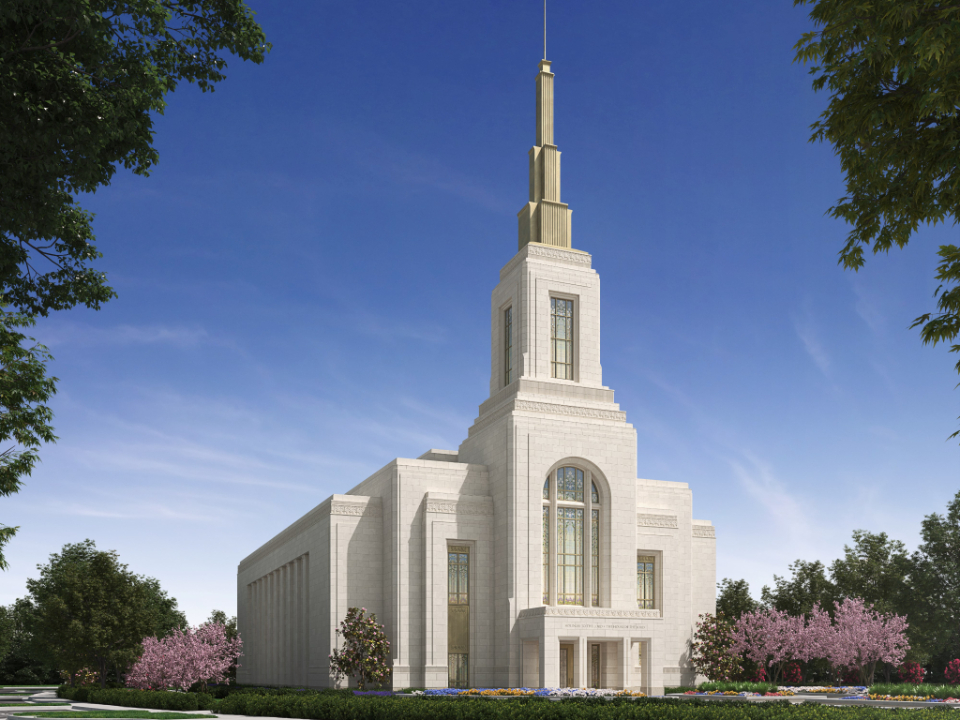
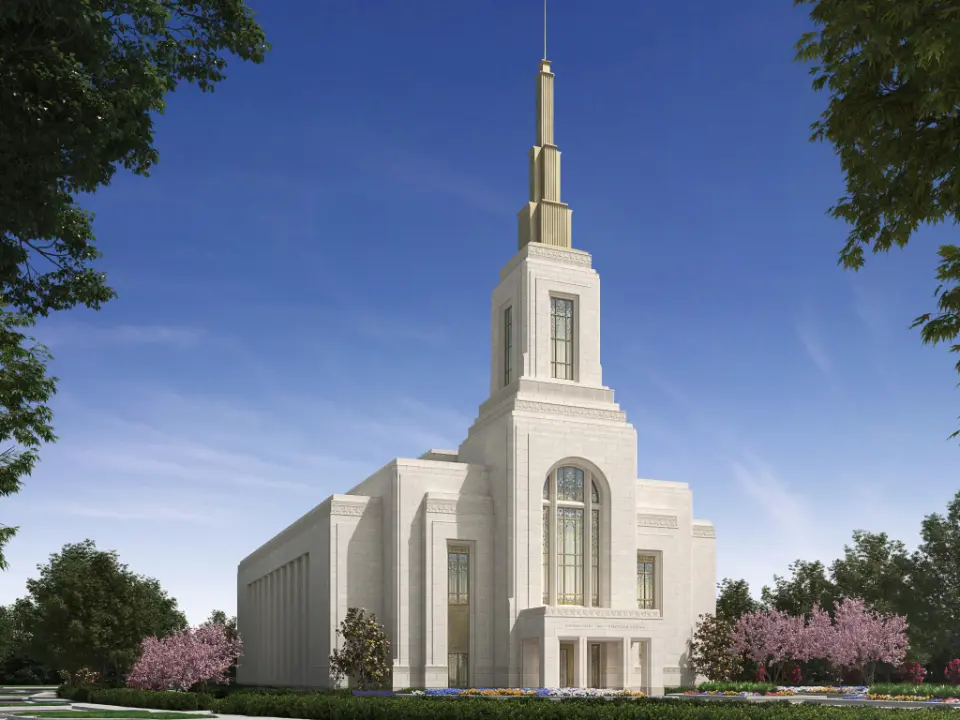
optimazed imgs

diff --git a/styles/temples.css b/styles/temples.css
@@ -99,7 +99,7 @@ footer p {
     bottom: -2px;
     width: 0%;
     height: 2px;
-    background-color: #2e6096;
+    background-color: rgb(8, 46, 77);;
     transition: width 0.3s ease;
 }
 

diff --git a/styles/temples-large.css b/styles/temples-large.css
@@ -19,7 +19,7 @@
     }
 
     .navigation a {
-        color: white;
+        color: rgb(8, 46, 77);
     }
 
     .hamburger {
